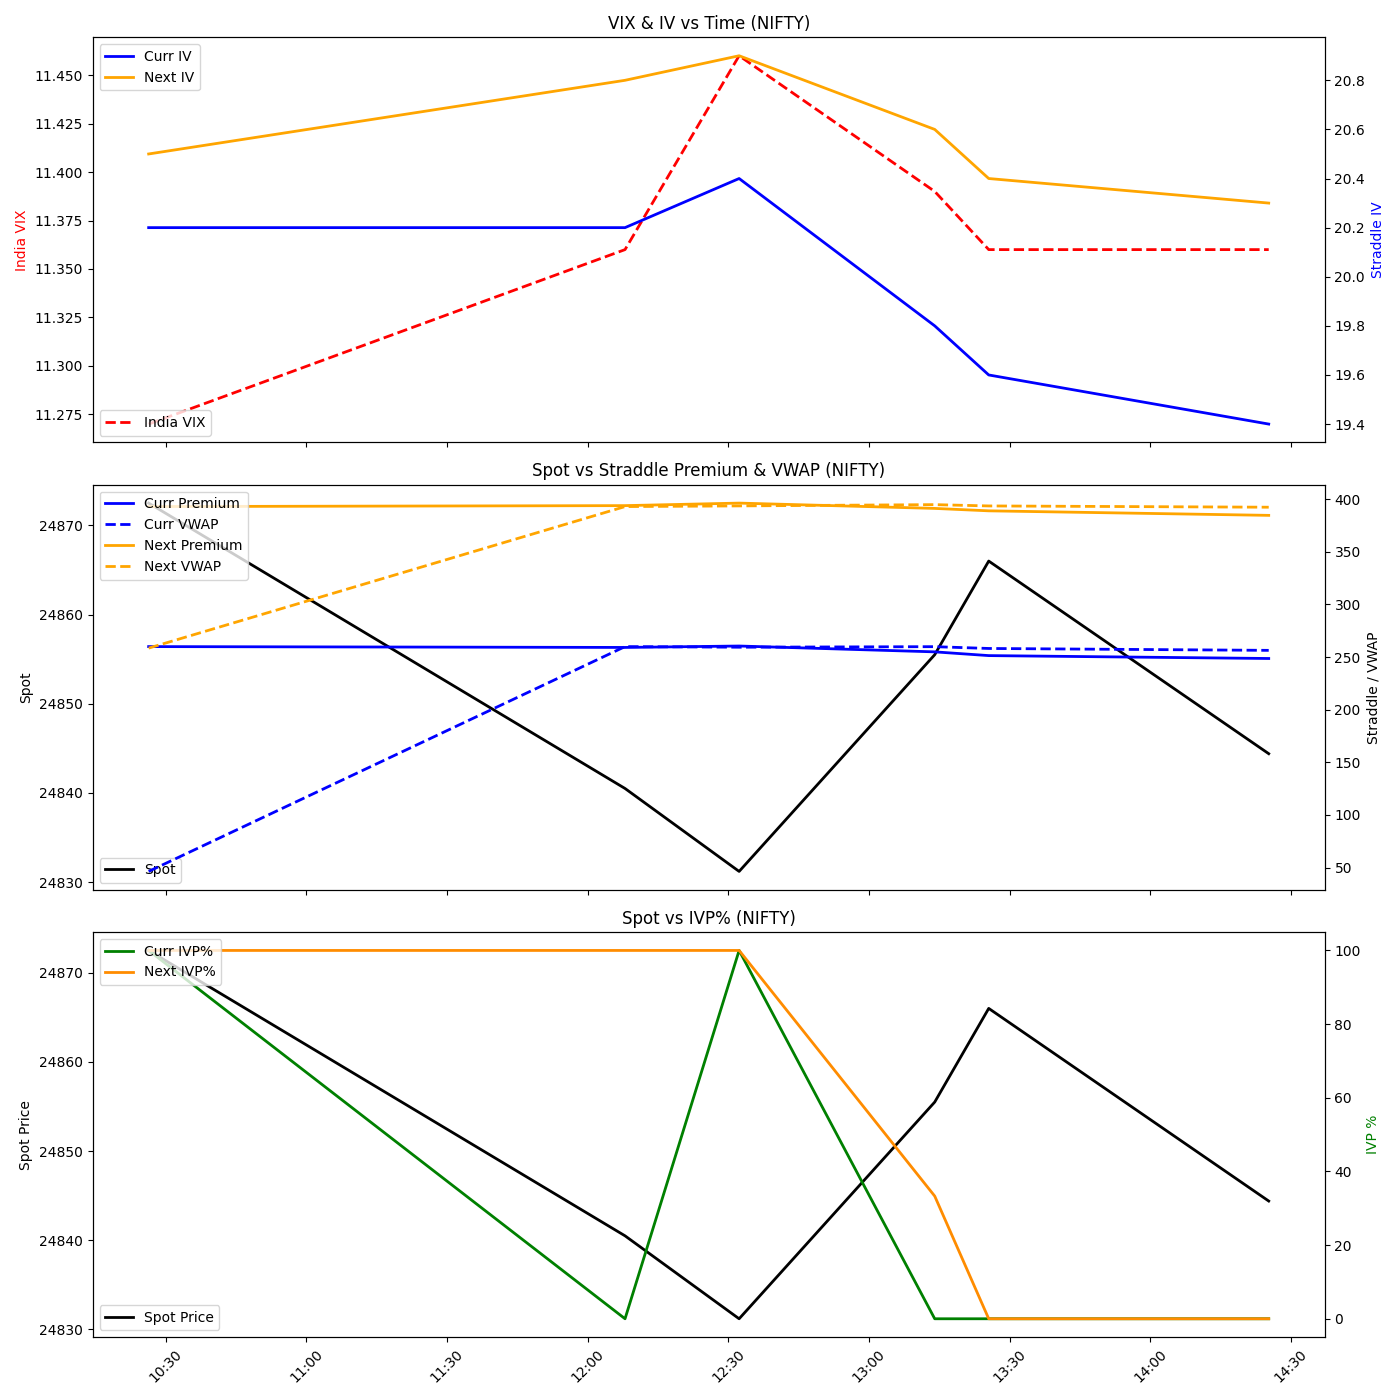
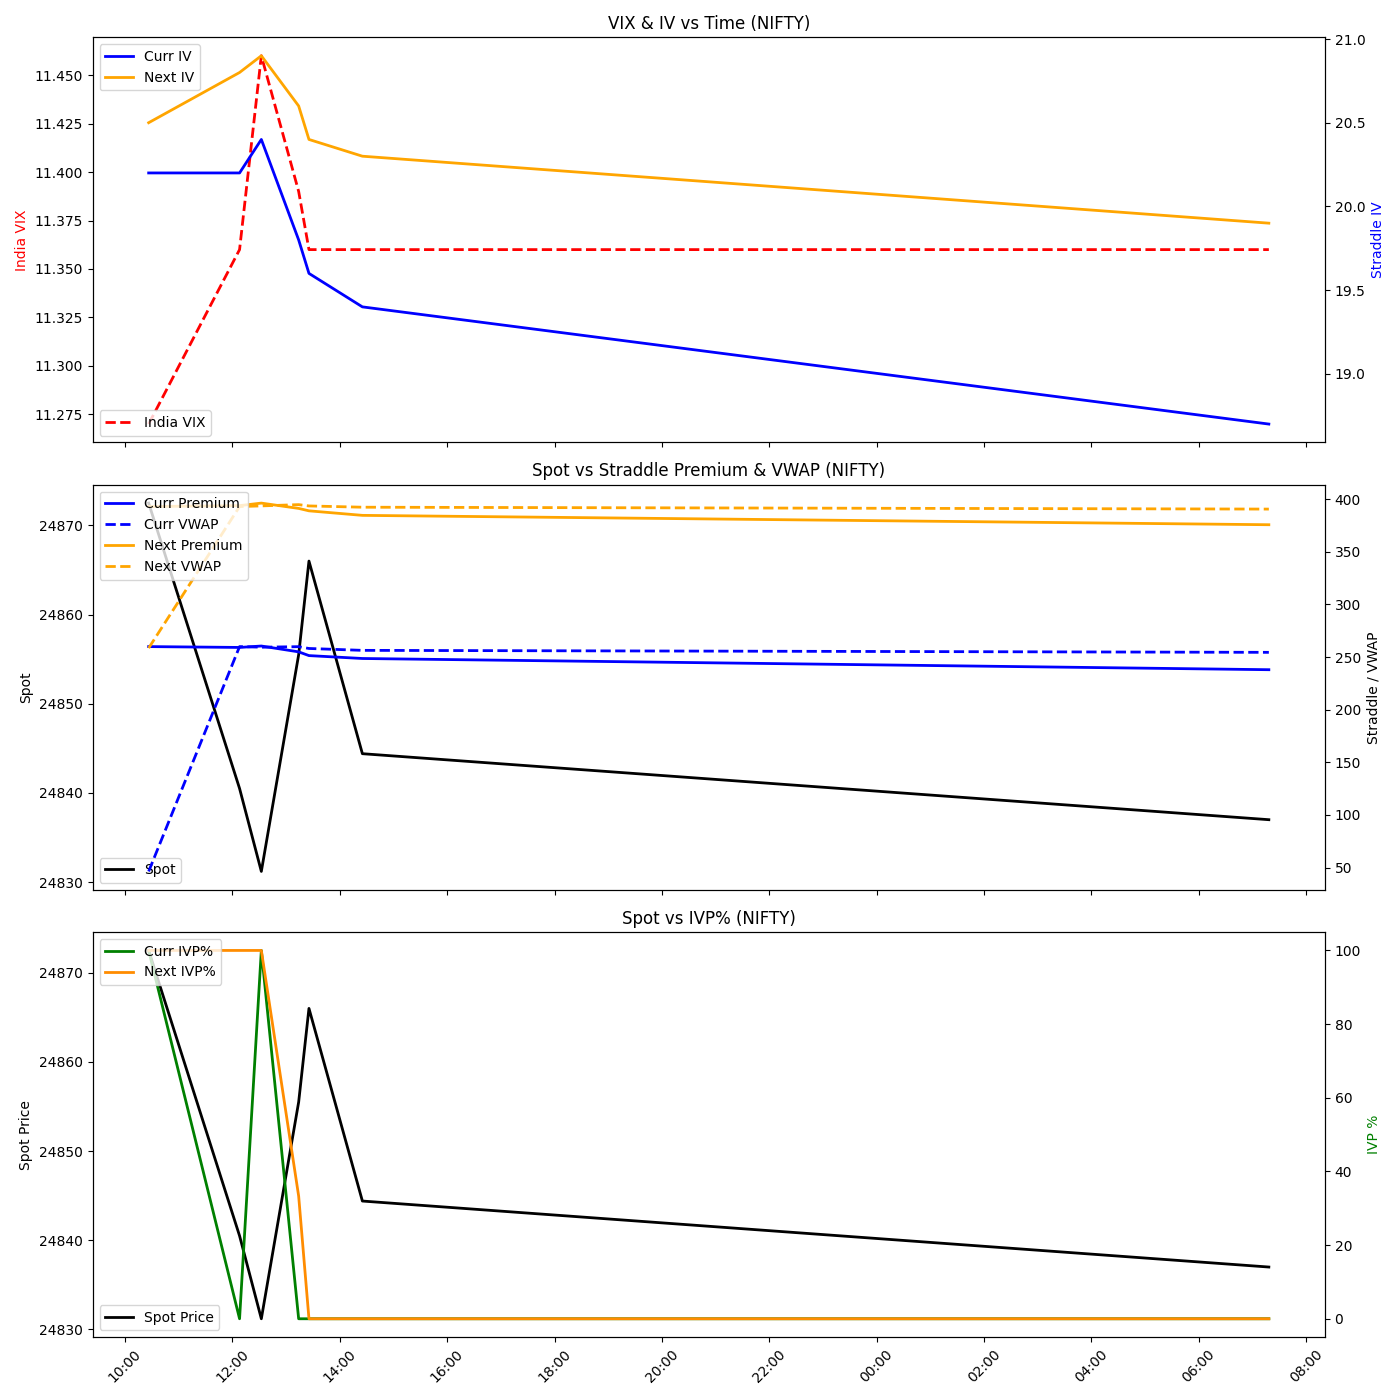
deploy: fc84d1ebe167489ba071347ebcd6347771edde32

diff --git a/nifty_master_runner.py b/nifty_master_runner.py
@@ -25,7 +25,7 @@ from telegram import Bot
 # -----------------------------------------
 # ✅ CONFIGURATION
 # -----------------------------------------
-DEBUG_MODE = False  # Set to True for after-hours testing
+DEBUG_MODE = True  # Set to True for after-hours testing
 STATIC_DIR = "static"
 CSV_FILENAME = os.path.join(STATIC_DIR, "atm_straddle_combined.csv")
 PDF_FOLDER = os.path.join(STATIC_DIR, "reports")
